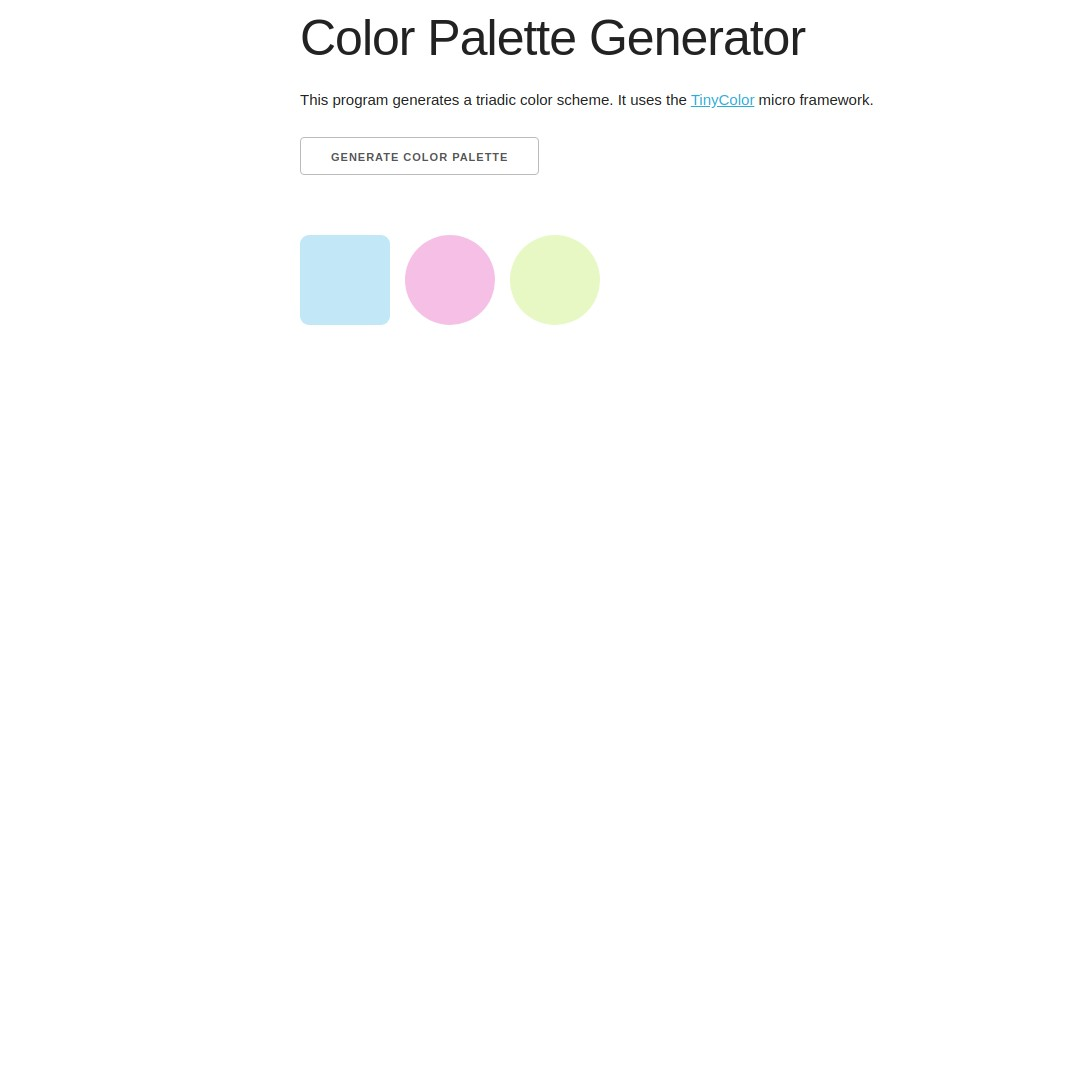
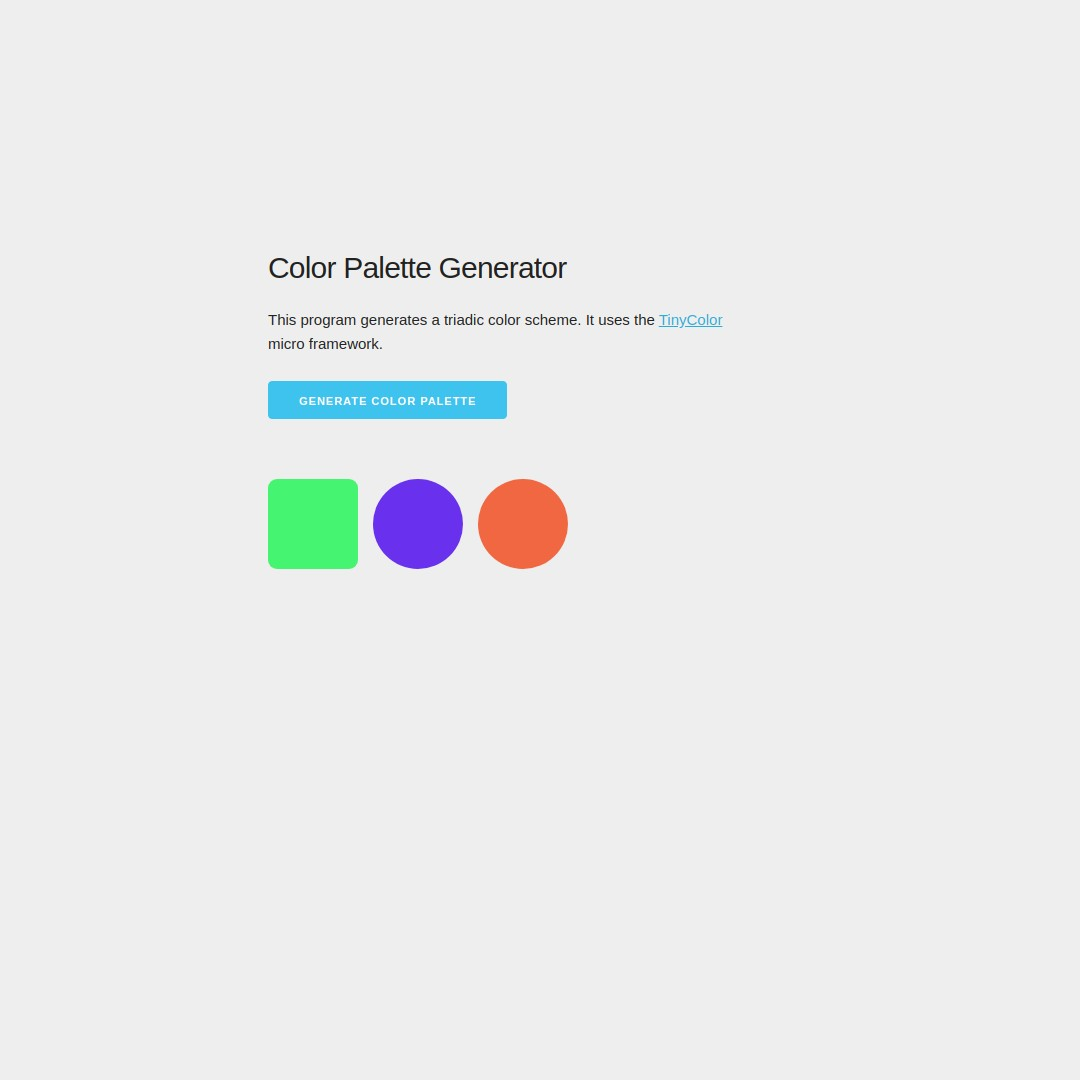
updated sites and projects

diff --git a/projects/color-palette-generator/index.html b/projects/color-palette-generator/index.html
@@ -1,18 +1,39 @@
 <!DOCTYPE html>
 <html lang="en">
+  <head>
+    <meta charset="UTF-8" />
+    <meta name="viewport" content="width=device-width, initial-scale=1.0" />
+    <meta http-equiv="X-UA-Compatible" content="ie=edge" />
+    <title>Color Palette Generator</title>
+    <link
+      rel="stylesheet"
+      href="https://cdnjs.cloudflare.com/ajax/libs/skeleton/2.0.4/skeleton.min.css"
+    />
+    <link rel="stylesheet" href="custom-styles.css" />
+  </head>
 
-<head>
-  <meta charset="UTF-8">
-  <meta name="viewport" content="width=device-width, initial-scale=1.0">
-  <meta http-equiv="X-UA-Compatible" content="ie=edge">
-  <title>Color Palette Generator</title>
-  <link rel="stylesheet" href="https://cdnjs.cloudflare.com/ajax/libs/skeleton/2.0.4/skeleton.min.css">
-  <link rel="stylesheet" href="custom-styles.css">
-</head>
+  <body>
+    <div class="container">
+      <div class="row">
+        <div class="one-half column" style="margin-top: 25%;">
+          <h4>Color Palette Generator</h4>
+          <p>
+            This program generates a triadic color scheme. It uses the
+            <a href="https://bgrins.github.io/TinyColor/">TinyColor</a> micro
+            framework.
+          </p>
+          <button class="button-primary" id="genBtn">
+            Generate Color Palette
+          </button>
+          <br />
+          <div class="boxes-container">
+            <!-- js generates color boxes here -->
+          </div>
+        </div>
+      </div>
+    </div>
 
-<body>
-
-  <div class="container">
+    <!-- <div class="container">
     <div class="row">
       <h1>Color Palette Generator</h1>
       <p>This program generates a triadic color scheme. It uses the <a
@@ -20,13 +41,12 @@
       <button id="genBtn">Generate Color Palette</button>
       <br>
       <div class="boxes-container">
-        <!-- js generates color boxes here -->
+      
       </div>
     </div>
-  </div>
-  <script type='text/javascript' src='tinycolor.js'></script>
-  <script src="app.js"></script>
+  </div> -->
 
-</body>
-
+    <script type="text/javascript" src="tinycolor.js"></script>
+    <script src="app.js"></script>
+  </body>
 </html>

diff --git a/projects/number-guesser-game/index.html b/projects/number-guesser-game/index.html
@@ -14,28 +14,36 @@
 
   <body>
     <div class="container">
-      <h1>Number Guessing Game</h1>
-      <!-- this div wraps the whole thing -->
-      <div id="game">
-        <!-- later generated with js -->
-        <p>
-          Guess a number between <span class="min-num"></span> and
-          <span class="max-num"></span>.
-        </p>
-        <input type="number" id="guess-input" placeholder="Enter your guess" />
-        <!-- <br> -->
-        <input
-          type="submit"
-          value="Submit"
-          id="guess-btn"
-          class="button-primary"
-        />
-        <input type="submit" value="Restart" id="restart-btn" />
-        <!-- we will insert a message with js - is the answer correct or not -->
-        <p class="message"></p>
+      <div class="row">
+        <div class="one-half column" style="margin-top: 25%;">
+          <h4>Number Guessing Game</h4>
+          <p>This is a fun little coding practice.</p>
+          <div id="game">
+            <!-- later generated with js -->
+            <p>
+              Guess a number between <span class="min-num"></span> and
+              <span class="max-num"></span>.
+            </p>
+            <input
+              type="number"
+              id="guess-input"
+              placeholder="Enter your guess"
+            />
+            <!-- <br> -->
+            <input
+              type="submit"
+              value="Submit"
+              id="guess-btn"
+              class="button-primary"
+            />
+            <input type="submit" value="Restart" id="restart-btn" />
+            <!-- we will insert a message with js - is the answer correct or not -->
+            <p class="message"></p>
+          </div>
+        </div>
       </div>
     </div>
-    <script type="text/javascript" src="tinycolor.js"></script>
+
     <script src="app.js"></script>
   </body>
 </html>

diff --git a/index.html b/index.html
@@ -67,7 +67,7 @@
 
           <a href="projects/color-palette-generator/index.html">
             <img
-              src="img/color-palette-generator.jpg"
+              src="img/number-guessing-game.jpg"
               alt=""
               class="project-image"
             />
@@ -93,22 +93,15 @@
       <section id="about">
         <h1>About</h1>
         <p>
-          Lorem ipsum dolor sit amet consectetur adipisicing elit. Quas fuga
-          perferendis libero! A, tempore numquam.
-        </p>
-        <p>
-          Lorem ipsum dolor sit, amet consectetur adipisicing elit. Ipsa aliquam
-          impedit, velit quasi illo reprehenderit animi odit inventore placeat
-          ipsam ad, voluptatibus corrupti! Officiis quis, reprehenderit
-          molestiae.
+          I'm currently working on my front-end development skills. As I
+          progress, I'll update this site and the projects section.
         </p>
       </section>
       <!-- CONTACT -->
       <section id="contact">
         <h1>Contact</h1>
         <p>
-          Lorem ipsum dolor sit amet consectetur adipisicing elit. Quas fuga
-          perferendis libero! A, tempore numquam.
+          Let's grab a cup of coffee...
         </p>
         <div class="contact-items">
           <a

diff --git a/projects/landing-page/styles.css b/projects/landing-page/styles.css
@@ -7,18 +7,15 @@
 body {
   font-family: Arial, Helvetica, sans-serif;
   background: rgb(22, 22, 22);
-  color: rgb(212, 212, 212);
+  color: rgb(238, 238, 238);
   line-height: 1.5;
   height: 100vh;
-  /* overflow: hidden; */
+  overflow: hidden;
 }
 
 .container {
   width: 100%;
   height: 100%;
-  /* overflow-y: scroll;
-  scroll-behavior: smooth;
-  scroll-snap-type: y mandatory; */
 }
 
 .navbar {

diff --git a/styles.css b/styles.css
@@ -5,7 +5,7 @@
 }
 
 body {
-  font-size: calc(18px + 0.35vw);
+  font-size: calc(14px + 0.35vw);
   background: rgb(252, 252, 252);
 }
 

diff --git a/projects/color-palette-generator/custom-styles.css b/projects/color-palette-generator/custom-styles.css
@@ -13,3 +13,7 @@
 .color-circle {
   border-radius: 50%;
 }
+
+body {
+  background: #eee;
+}
